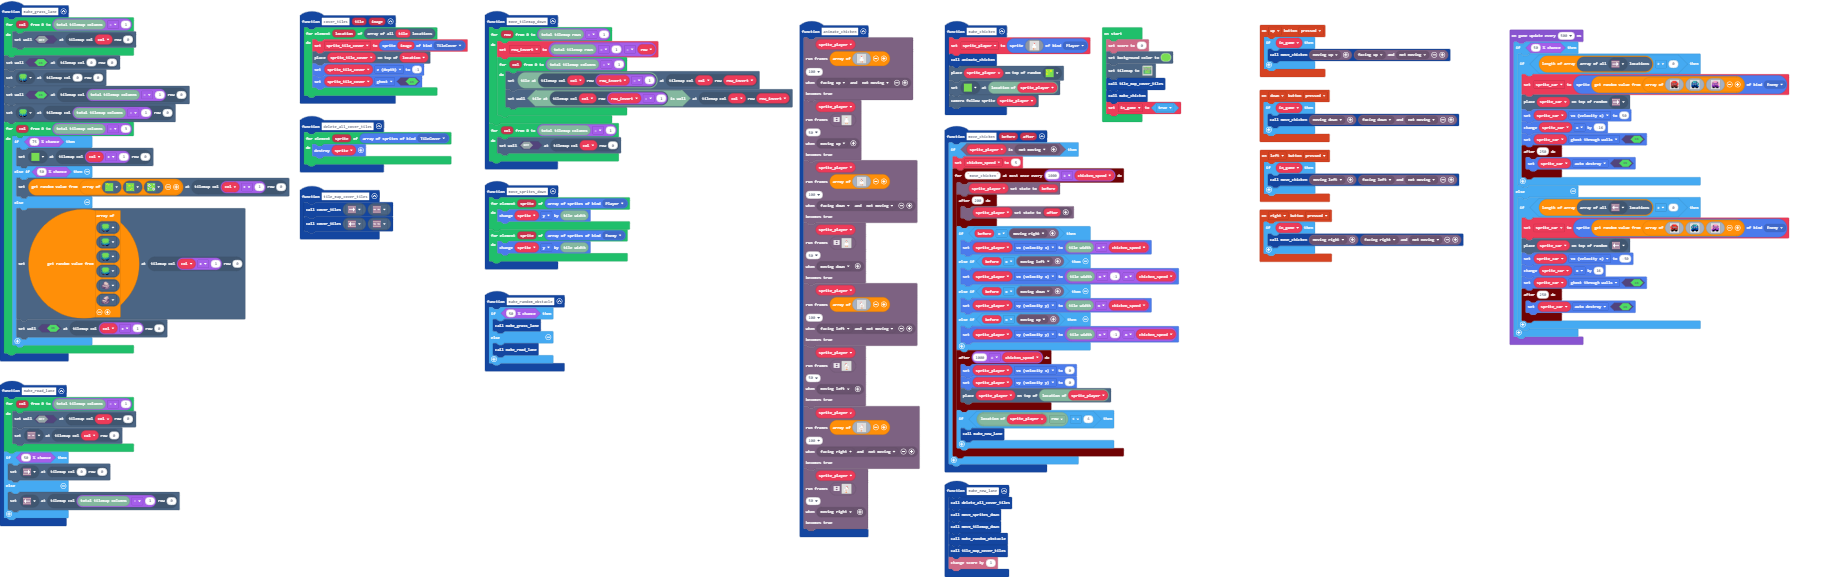
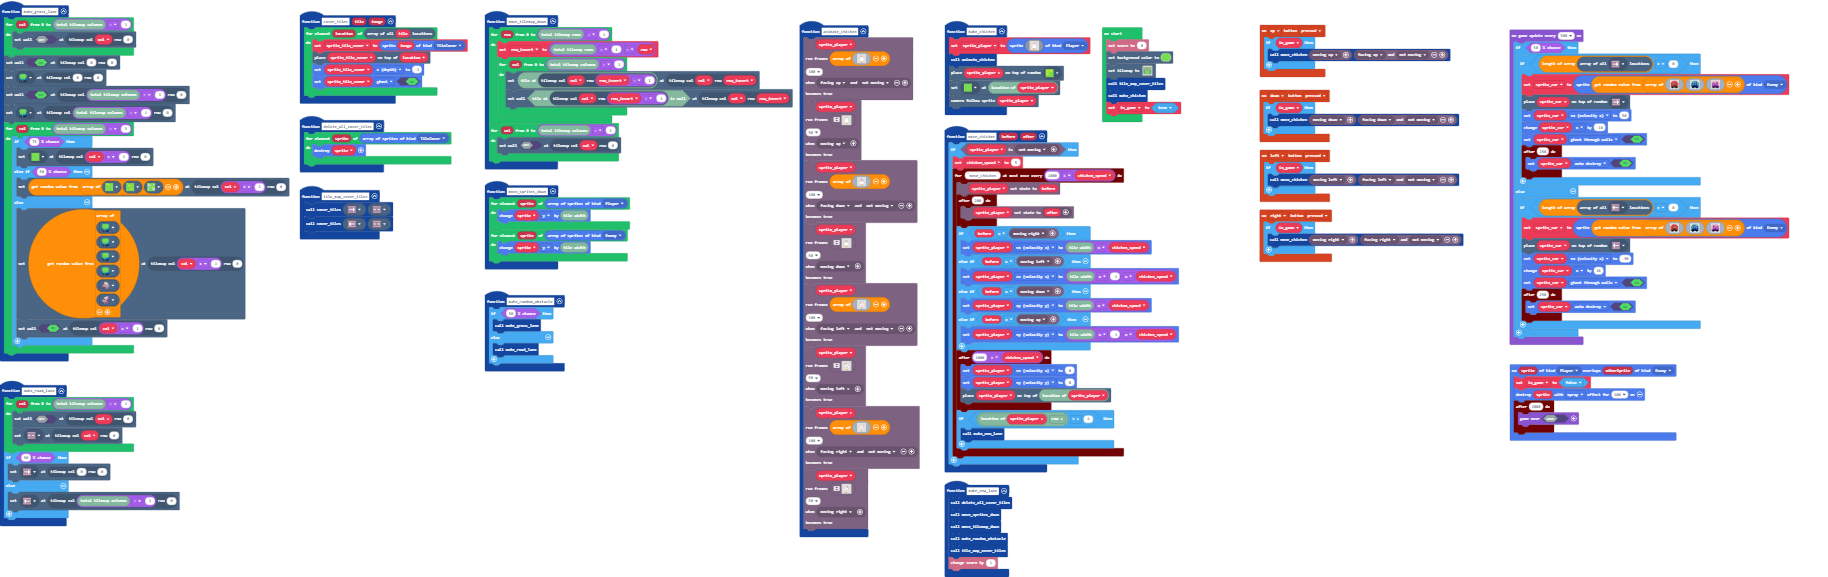
Die if you touch car

Changed region(s): [[0.8107, 0.6239, 0.9354, 0.7799]]

diff --git a/main.ts b/main.ts
@@ -195,6 +195,13 @@ function make_chicken () {
     tiles.setTileAt(tiles.locationOfSprite(sprite_player), assets.tile`grass`)
     scene.cameraFollowSprite(sprite_player)
 }
+sprites.onOverlap(SpriteKind.Player, SpriteKind.Enemy, function (sprite, otherSprite) {
+    in_game = false
+    sprite.destroy(effects.spray, 100)
+    timer.after(2000, function () {
+        game.over(false)
+    })
+})
 let sprite_car: Sprite = null
 let row_invert = 0
 let chicken_speed = 0
